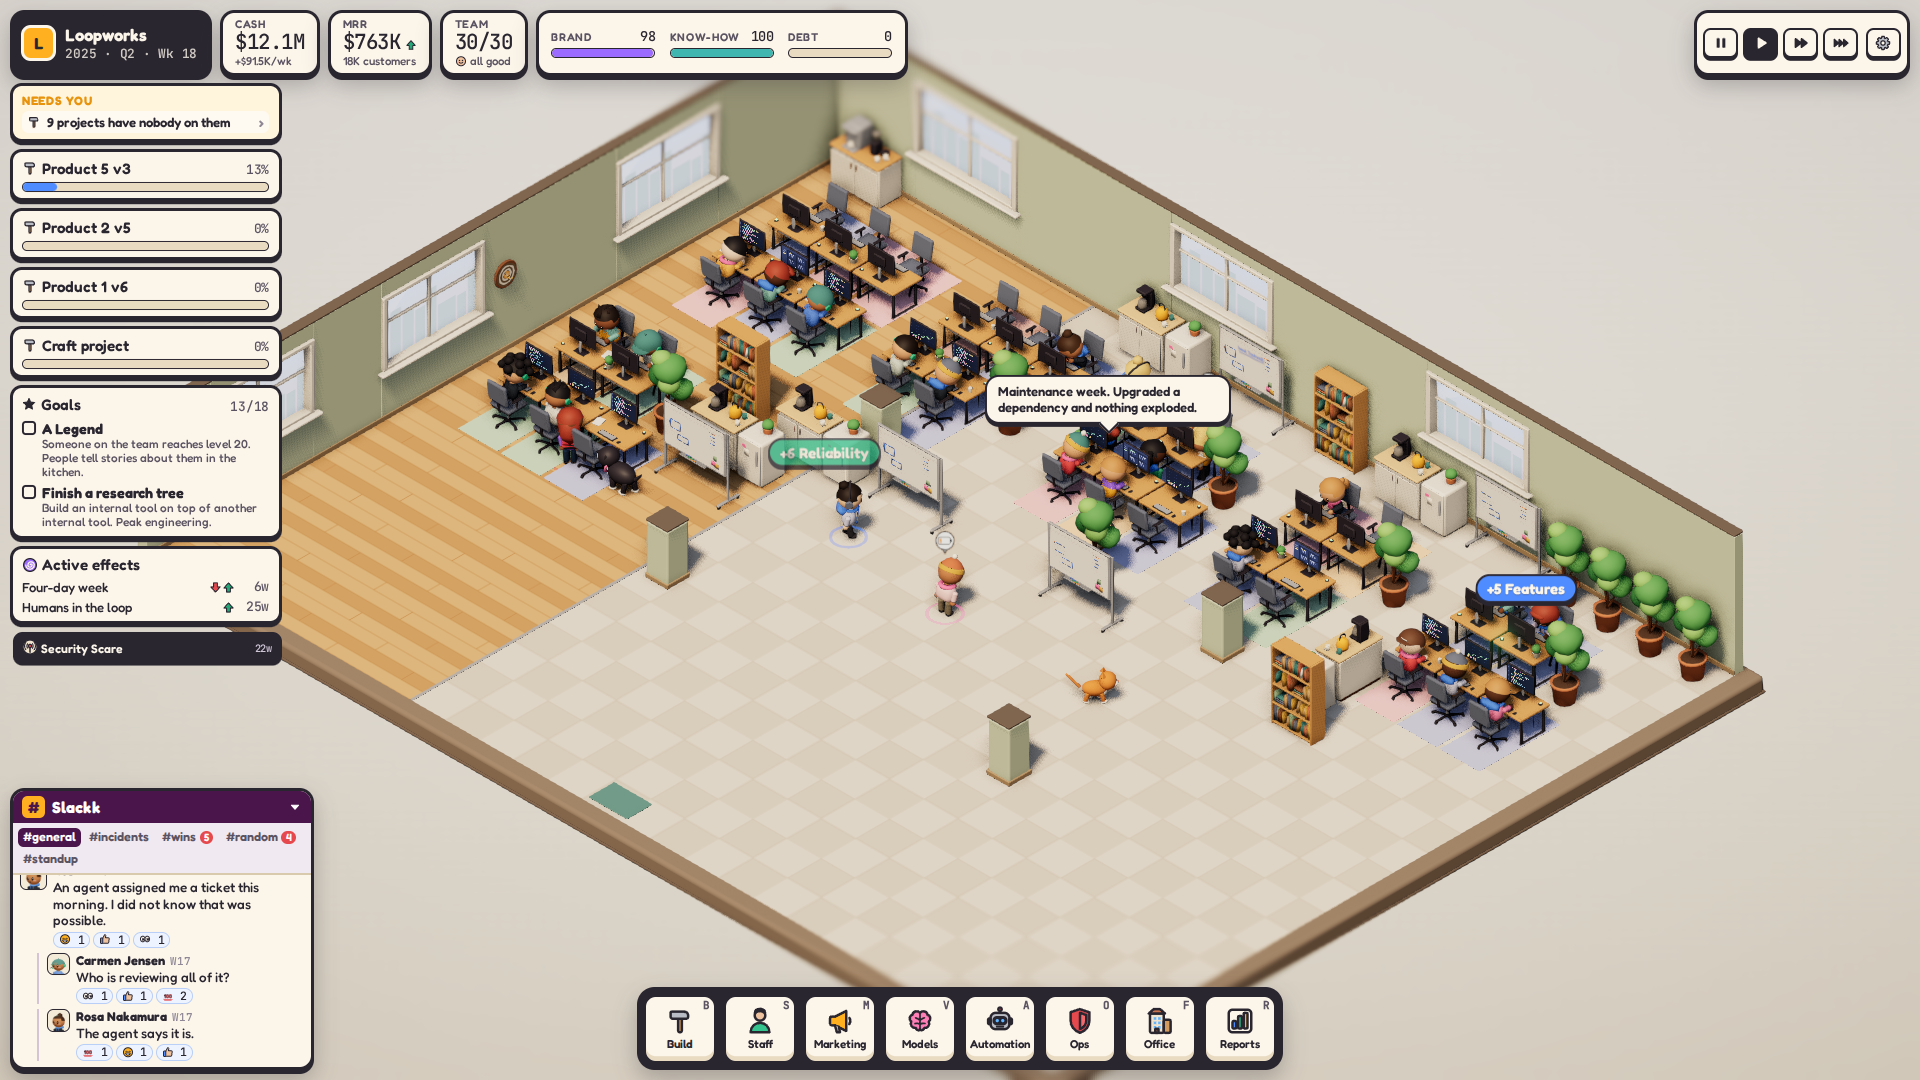
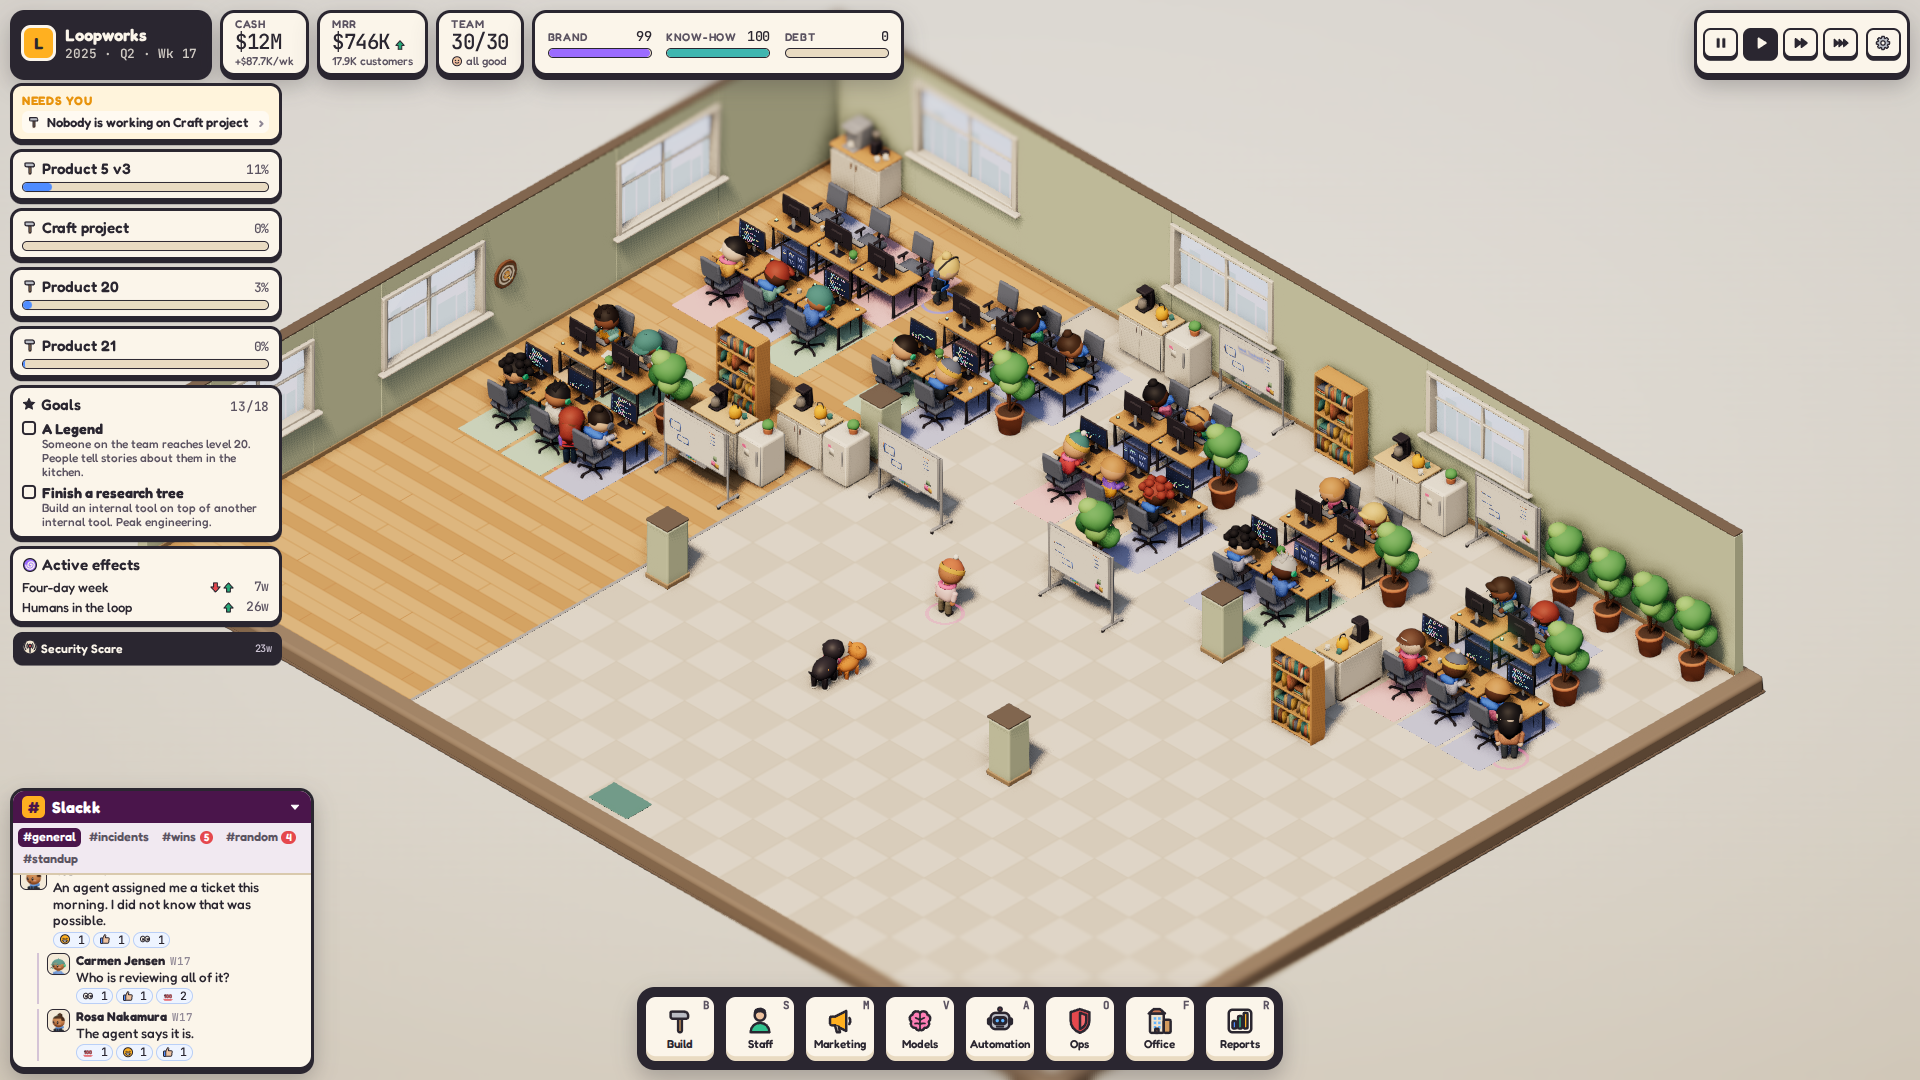
fix(capture): README HQ shot without unstaffed-update nags

diff --git a/scripts/capture-manifest.js b/scripts/capture-manifest.js
@@ -258,9 +258,11 @@ export const ITEMS = [
     actions: [...DISMISS_AT([0.1, 0.5]), { at: 0.3, js: KEY('c', 'KeyC') }], screenshots: [3],
   },
   {
+    // The bot starts more product updates than it staffs; as a player would, cancel the ones nobody
+    // is on, so the Needs You tray shows the game rather than the bot. Shot before the first live tick.
     id: 'readme-hq', group: 'readme', title: 'A busy Agents-era HQ with pets and perks', query: 'seed=1&speed=1&time=day', still: true,
-    setup: PLAY({ weeks: 500, until: "s.office.stage === 2 && s.era.id === 'agents'", after: IN_OFFICE + CHAT_HISTORY }), warmup: 6,
-    actions: DISMISS_EVERY(5), screenshots: [5],
+    setup: PLAY({ weeks: 500, until: "s.office.stage === 2 && s.era.id === 'agents'", after: IN_OFFICE + CHAT_HISTORY + "s.projects = s.projects.filter((j) => j.kind !== 'update' || s.staff.some((p) => p.assignment?.type === 'project' && p.assignment.targetId === j.id));" }), warmup: 2,
+    actions: DISMISS_EVERY(4), screenshots: [4],
   },
   {
     id: 'readme-lockdown', group: 'readme', title: 'Lockdown: the video call over the empty office', query: 'seed=1&speed=1', still: true,
